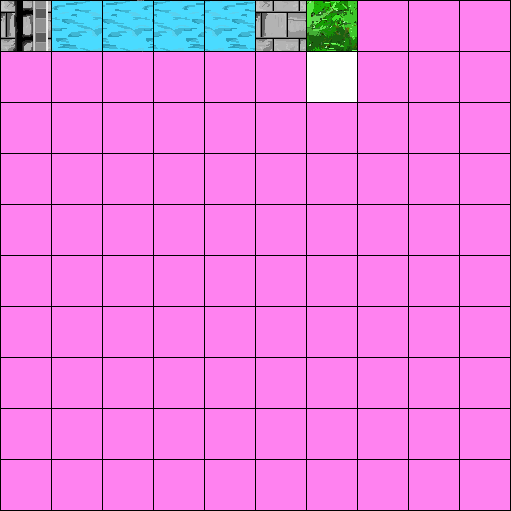
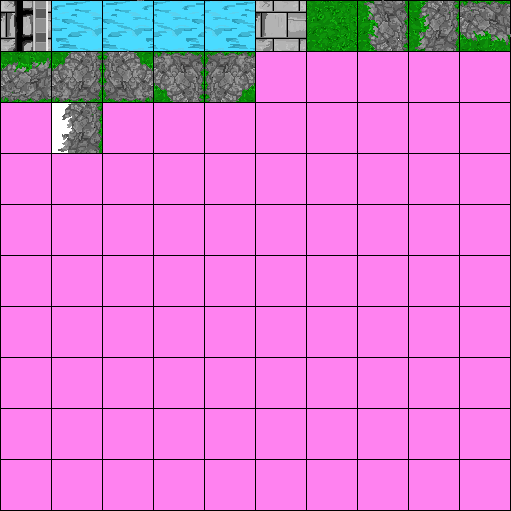
updated graphics

Changed region(s): [[0.0, 0.0881, 0.499, 0.3229], [0.5871, 0.0, 1.0, 0.2055]]

diff --git a/Marchgame/org.tuxedofish.marchgame/terrain/Parser.java b/Marchgame/org.tuxedofish.marchgame/terrain/Parser.java
@@ -44,30 +44,36 @@ public class Parser {
 				if(new Color(lvl.getRGB(j, i)).equals(new Color(0, 0, 255))) {
 					blocks.add(new Block(pos.x + ((float)(j*b.getWidth())/Display.getWidth()), pos.y + ((float)(i*b.getHeight())/Display.getHeight()), 1, 50, 50));
 				}
-				//peepy hole
-				if(new Color(lvl.getRGB(j, i)).equals(new Color(10, 10, 10))) {
+				//cliff right
+				if(new Color(lvl.getRGB(j, i)).equals(new Color(0, 200, 0))) {
 					blocks.add(new Block(pos.x + ((float)(j*b.getWidth())/Display.getWidth()), pos.y + ((float)(i*b.getHeight())/Display.getHeight()), 7, 50, 50));
 				}
-				//flag(1-3)
-				if(new Color(lvl.getRGB(j, i)).equals(new Color(20, 20, 20))) {
+				//cliff left
+				if(new Color(lvl.getRGB(j, i)).equals(new Color(0, 150, 0))) {
 					blocks.add(new Block(pos.x + ((float)(j*b.getWidth())/Display.getWidth()), pos.y + ((float)(i*b.getHeight())/Display.getHeight()), 8, 50, 50));
 				}
-				if(new Color(lvl.getRGB(j, i)).equals(new Color(30, 30, 30))) {
+				//cliff top
+				if(new Color(lvl.getRGB(j, i)).equals(new Color(0, 100, 0))) {
 					blocks.add(new Block(pos.x + ((float)(j*b.getWidth())/Display.getWidth()), pos.y + ((float)(i*b.getHeight())/Display.getHeight()), 9, 50, 50));
 				}
-				if(new Color(lvl.getRGB(j, i)).equals(new Color(40, 40, 40))) {
+				//cliff bottom
+				if(new Color(lvl.getRGB(j, i)).equals(new Color(0, 50, 0))) {
 					blocks.add(new Block(pos.x + ((float)(j*b.getWidth())/Display.getWidth()), pos.y + ((float)(i*b.getHeight())/Display.getHeight()), 10, 50, 50));
 				}
-				if(new Color(lvl.getRGB(j, i)).equals(new Color(50, 50, 50))) {
+				//cliff bottom-right
+				if(new Color(lvl.getRGB(j, i)).equals(new Color(20, 200, 20))) {
 					blocks.add(new Block(pos.x + ((float)(j*b.getWidth())/Display.getWidth()), pos.y + ((float)(i*b.getHeight())/Display.getHeight()), 11, 50, 50));
 				}
-				if(new Color(lvl.getRGB(j, i)).equals(new Color(60, 60, 60))) {
+				//cliff bottom-left
+				if(new Color(lvl.getRGB(j, i)).equals(new Color(20, 150, 20))) {
 					blocks.add(new Block(pos.x + ((float)(j*b.getWidth())/Display.getWidth()), pos.y + ((float)(i*b.getHeight())/Display.getHeight()), 12, 50, 50));
 				}
-				if(new Color(lvl.getRGB(j, i)).equals(new Color(70, 70, 70))) {
+				//cliff top-right
+				if(new Color(lvl.getRGB(j, i)).equals(new Color(10, 200, 10))) {
 					blocks.add(new Block(pos.x + ((float)(j*b.getWidth())/Display.getWidth()), pos.y + ((float)(i*b.getHeight())/Display.getHeight()), 13, 50, 50));
 				}
-				if(new Color(lvl.getRGB(j, i)).equals(new Color(80, 80, 80))) {
+				//cliff top-left
+				if(new Color(lvl.getRGB(j, i)).equals(new Color(10, 150, 10))) {
 					blocks.add(new Block(pos.x + ((float)(j*b.getWidth())/Display.getWidth()), pos.y + ((float)(i*b.getHeight())/Display.getHeight()), 14, 50, 50));
 				}
 			}

diff --git a/Marchgame/org.tuxedofish.marchgame/logic/entities/EnemyLoader.java b/Marchgame/org.tuxedofish.marchgame/logic/entities/EnemyLoader.java
@@ -168,6 +168,7 @@ public class EnemyLoader extends Thread{
 				String line = null;
 				while((line=reader2.readLine()) != null) {
 					parent.loadupdate(100/lines);
+					System.out.println();
 					String[] parts = line.split(" ");
 					BufferedReader reader = images.getFile("enemies/" + parts[0] + ".txt");
 					String line2 = "";
@@ -185,6 +186,7 @@ public class EnemyLoader extends Thread{
 					int health = Integer.valueOf(reader.readLine());
 					int shootspeed = Integer.valueOf(reader.readLine());
 					
+					reader.close();
 					try {
 						Class<?> enemy = null;
 						if(!loadedclasses.contains(texloc.substring(0, texloc.length()-4))) {
@@ -228,6 +230,7 @@ public class EnemyLoader extends Thread{
 						e.printStackTrace();
 					}
 				}
+				reader2.close();
 			} catch (IOException e) {
 				System.err.println("err getting img");
 				System.exit(1);

diff --git a/Marchgame/org.tuxedofish.marchgame/start/gui/GuiBar.java b/Marchgame/org.tuxedofish.marchgame/start/gui/GuiBar.java
@@ -75,7 +75,7 @@ public class GuiBar implements GuiElement{
 			
 			g.drawImage(emptybar, 0, 0, null);
 			
-			g.drawImage(bar.getSubimage(0, 0, (int)(((float)bar.getWidth()/100.0f)*(float)percent), 
+			g.drawImage(bar.getSubimage(0, 0, (int)(((float)bar.getWidth()/101.0f)*(float)percent), 
 					bar.getHeight()), 1, 1, null);
 			g.dispose();
 		} catch (IOException e) {

diff --git a/Marchgame/org.tuxedofish.marchgame/start/ControllerTimer.java b/Marchgame/org.tuxedofish.marchgame/start/ControllerTimer.java
@@ -27,7 +27,7 @@ public class ControllerTimer extends Thread{
 			try {
 				Thread.sleep(1);
 				for(int i=0; i<temp.size(); i++) {
-					if(!disabled.get(i)) {
+					if(i < temp.size() && !disabled.get(i)) {
 						temp.set(i, temp.get(i) + 1);
 						if(temp.get(i) >= stages.get(i)) {
 							temp.set(i, 0);
